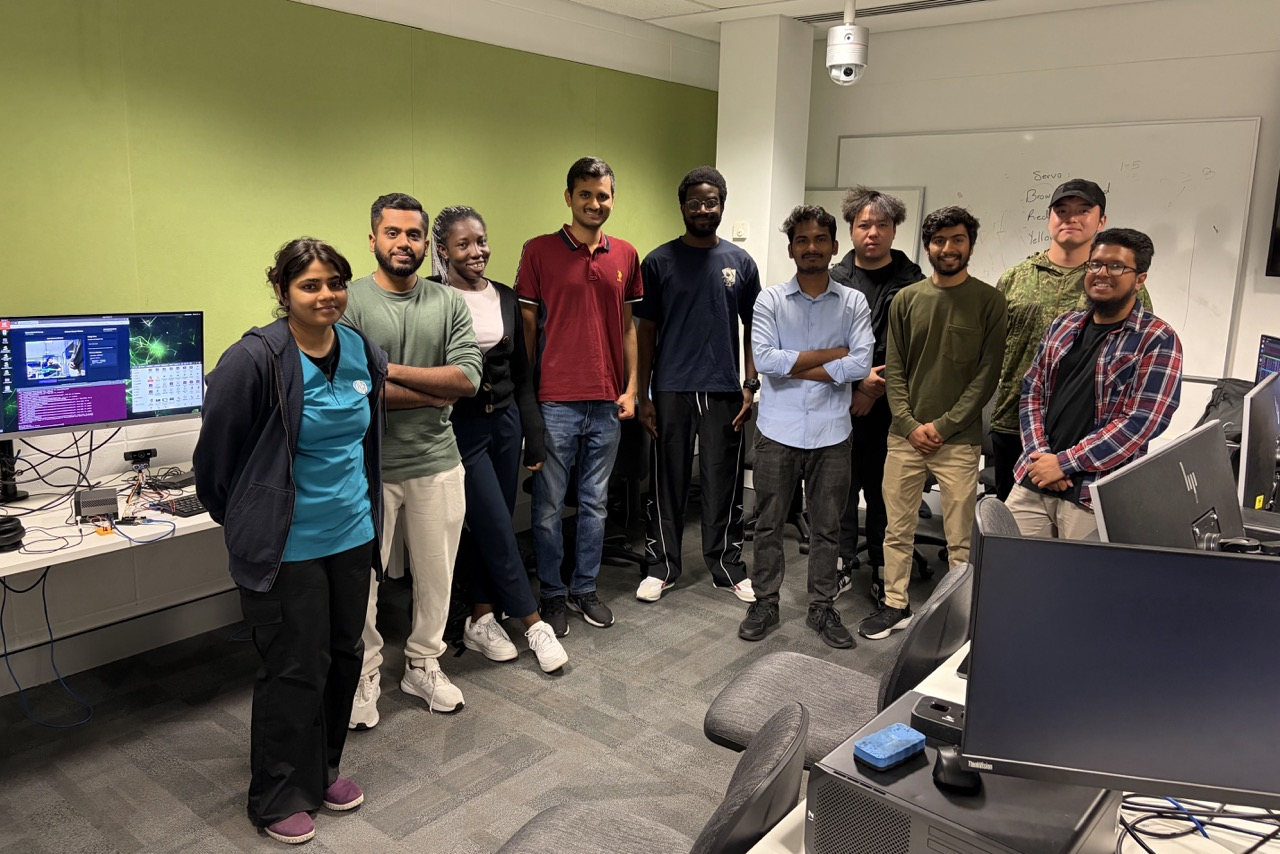
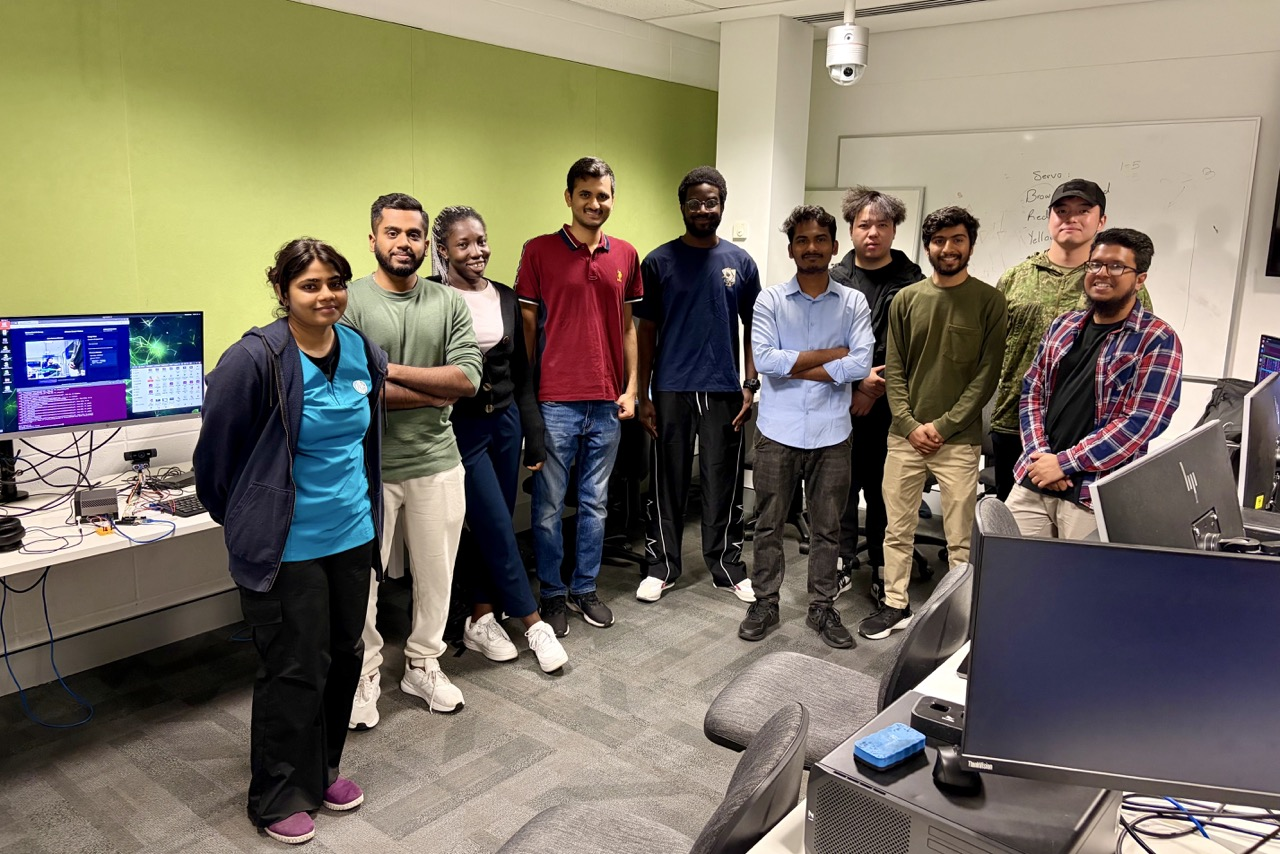
Updated the people page.

diff --git a/_pages/profiles.md b/_pages/profiles.md
@@ -32,15 +32,21 @@ nav_order: 4
 <!-- <img src="../assets/img/group_photo.png" alt="Group Photo" width="300"> -->
 
 ### Current Students:
-- Lucas Hoefs - Curtin PhD student (starting 2025), co-supervised with [Dr. Hui Xie](https://staffportal.curtin.edu.au/staff/profile/view/hui-xie-2a396275/) and [Dr. Senjian An](https://staffportal.curtin.edu.au/staff/profile/view/senjian-an-433dd22d/), thesis title: Large Multimodal Model Powered Safe Policy Learning for Field Autonomous Robots
-- Sooraj Vellolichembramunda - Curtin Honours student (starting 2025), project title: Building of Open-sourced Robotic Arms
-- George Calvert - Curtin Honours student (starting 2025), co-supervised with [A/Prof. Cesar Ortega-Sanchez](https://staffportal.curtin.edu.au/staff/profile/view/cesar-ortega-sanchez-8b14351c/), project tiltle: Implementation of a Neural Network on a FPGA Borad
+#### HDR Students:
+- Lucas Hoefs - PhD student (commenced 2025), co-supervised with [Dr. Hui Xie](https://staffportal.curtin.edu.au/staff/profile/view/hui-xie-2a396275/) and [Dr. Senjian An](https://staffportal.curtin.edu.au/staff/profile/view/senjian-an-433dd22d/), Thesis: Robust and Efficient Robotic Navigation in Complex, Dynamic Environments
+
+#### Honours/Final-Year Project Students
+- [Lachlan Raffan](https://www.linkedin.com/in/lachie-raffan2026/) - Honours student (commenced Semester 2, 2025), Project: Design of a Modular Robotic Hand with Integrated Tactile Sensing
+- [Austin Suwandi](https://www.linkedin.com/in/austinsuwandi/) - Honours student (commenced Semester 2, 2025), Project: Duplication and Application of Hugging Face LeRobot SO-101 Arm with SmolVLA for Robotic Grasping and Manipulation
+- Campbell Lamont - Honours student (commenced Semester 2, 2025), Project: Development and Application of eFlesh for Robotic Grasping and Manipulation of Delicate Objects
+- [Md Sihab Uddin](https://www.linkedin.com/in/sihab-mte16ruet/) - Master's final-year project student (commenced Semester 2, 2025), Project: Edge AI for Real-time Hazard Prediction in Underground Mines
 
 ### Alumni:
+- [George Calvert](https://www.linkedin.com/in/george-calvert-41ba91203/) - Curtin Honours graduate (2025), co-supervised with [A/Prof. Cesar Ortega-Sanchez](https://staffportal.curtin.edu.au/staff/profile/view/cesar-ortega-sanchez-8b14351c/), Project: Implementation of a Neural Network on a FPGA Borad
 - [Robert Lee](https://www.linkedin.com/in/robert-lee-a8a98922b/) - QUT PhD graduate (2023), co-supervised with [Prof. Peter Corke](https://www.qut.edu.au/about/our-people/academic-profiles/peter.corke), now a Research Engineer at [Woven by Toyota](https://woven.toyota/en/)
 - [Liguo Zhu](https://www.linkedin.com/in/liguo-zhu-2830b2271/) - QUT Master’s graduate (2023), now a Machine Learning Engineer at [CTM](https://www.travelctm.com/global/)
 - [Tim De Keijzer](https://www.linkedin.com/in/tdekeijzer/) - QUT Research intern and Master’s student at [Eindhoven University of Technology](https://www.tue.nl/en/) (2023), now a Mechatronics Designer at [Philips](https://www.philips.com)
-- Kristopher Toombs - QUT Honours graduate (2024)
+- [Kristopher Toombs](https://www.linkedin.com/in/kristopher-toombs-22374b21b/) - QUT Honours graduate (2024)
 - [Joseph Turner](https://www.linkedin.com/in/josephturner2/) - QUT Honours graduate (2024)
 - [Maceon Knopke](https://www.linkedin.com/in/maceonknopke/) - QUT Honours graduate (2023), now a Research Assistant at [QCR](https://research.qut.edu.au/qcr/)
 - [Stephen Wardle](https://www.linkedin.com/in/stephen-j-wardle/) - QUT Honours graduate (2023), now a Graduate Engineer at [Aurecon](https://www.aurecongroup.com/)
